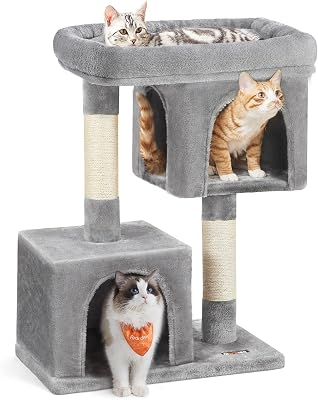
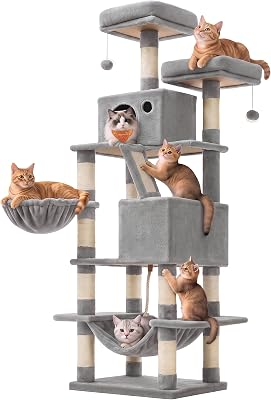
Bigger cat tree (Feandrea 66.1 in), Cat Dancer, KONG Extreme, Chuckit Ultra Ball

diff --git a/index.html b/index.html
@@ -260,14 +260,20 @@ const ITEMS = [
   { id: "fryer", cat: "Kitchen", name: "T-fal Ultimate EZ Clean deep fryer, 3.5 L",
     price: 104.44, list: 149.99, tracked: true, shop: ["Amazon", A + "B00NQ7QFGM"], tags: [] },
 
-  { id: "cat-tree", cat: "Pets", name: "Feandrea 33.1-inch cat tower",
-    price: 44.73, list: 49.99, tracked: true, shop: ["Amazon", A + "B0795T91YP"], tags: ["Color: light gray"] },
+  { id: "cat-tree", cat: "Pets", name: "Feandrea 66.1-inch large cat tower",
+    price: 59.49, list: 69.99, tracked: true, shop: ["Amazon", A + "B09YLP5F38"], tags: ["Color: light gray"] },
   { id: "cat-harness", cat: "Pets", name: "Voyager Step-In cat harness with leash",
     price: 12.06, list: 13.99, tracked: true, shop: ["Amazon", A + "B0CLVQQ897"], tags: ["Color: black", "Size: S (chest 15 to 18 in)"] },
   { id: "pet-puzzle", cat: "Pets", name: "Nina Ottosson Dog Brick treat puzzle",
     price: 11.02, list: 20.99, tracked: true, shop: ["Amazon", A + "B0711Y9XTF"], tags: [] },
+  { id: "cat-dancer", cat: "Pets", name: "Cat Dancer 101 interactive cat toy",
+    price: 5.99, tracked: true, shop: ["Amazon", A + "B00Y7ZLE0Y"], tags: [] },
+  { id: "dog-kong", cat: "Pets", name: "KONG Extreme dog toy",
+    price: 12.96, tracked: true, shop: ["Amazon", A + "B000GUDZO2"], tags: ["Color: black", "Size: Medium"] },
+  { id: "dog-ball", cat: "Pets", name: "Chuckit! Ultra Ball, 2-pack",
+    price: 4.97, list: 7.99, listLabel: "typical", tracked: true, shop: ["Amazon", A + "B000F4AVPA"], tags: ["Size: Medium (2.5 in)"] },
 ];
-const BASE_DATE = Date.parse("2026-11-26T06:20:00Z");   // when the prices above were read from the shops
+const BASE_DATE = Date.parse("2026-11-26T08:50:00Z");   // when the prices above were read from the shops
 const PRICES_URL = "https://raw.githubusercontent.com/Kimikari/kimis-christmas-list/data/prices.json";
 // The shared "already bought" list: one small public text record, {"<id>": <time it was marked>}.
 const STORE_READ = "https://textdb.online/kimis-xmas-bought-q7w3k9x2";
